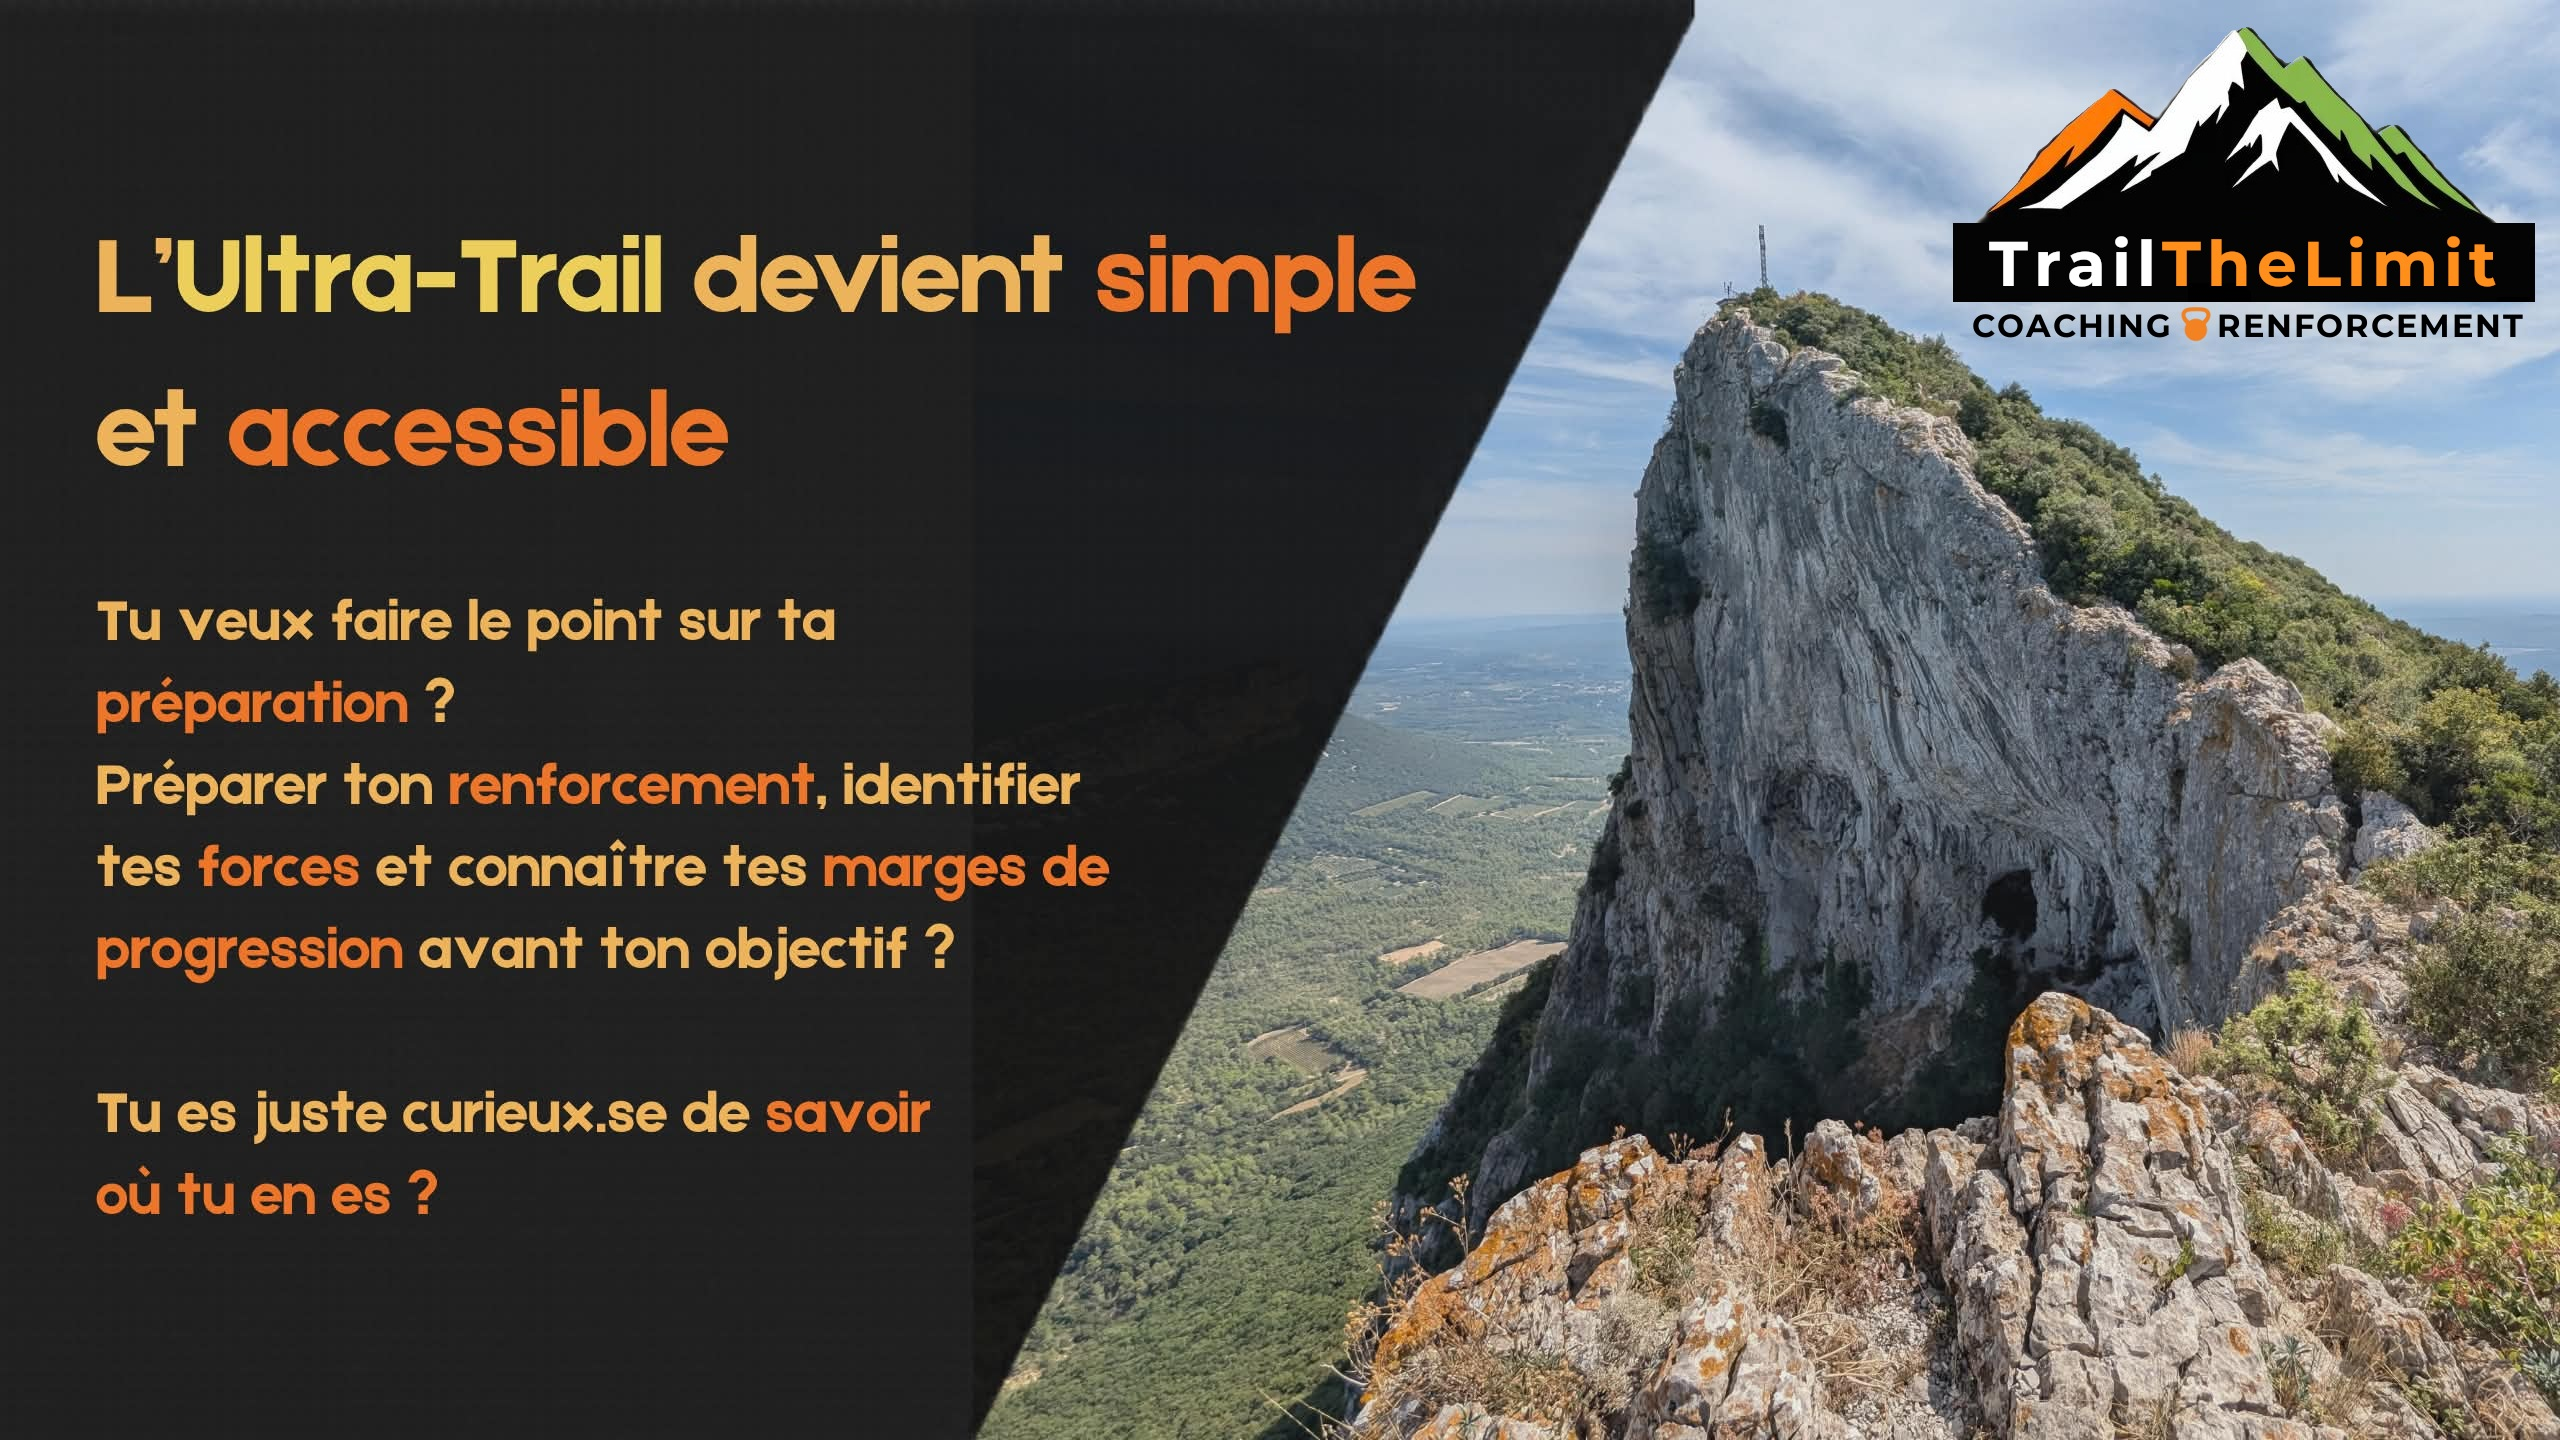
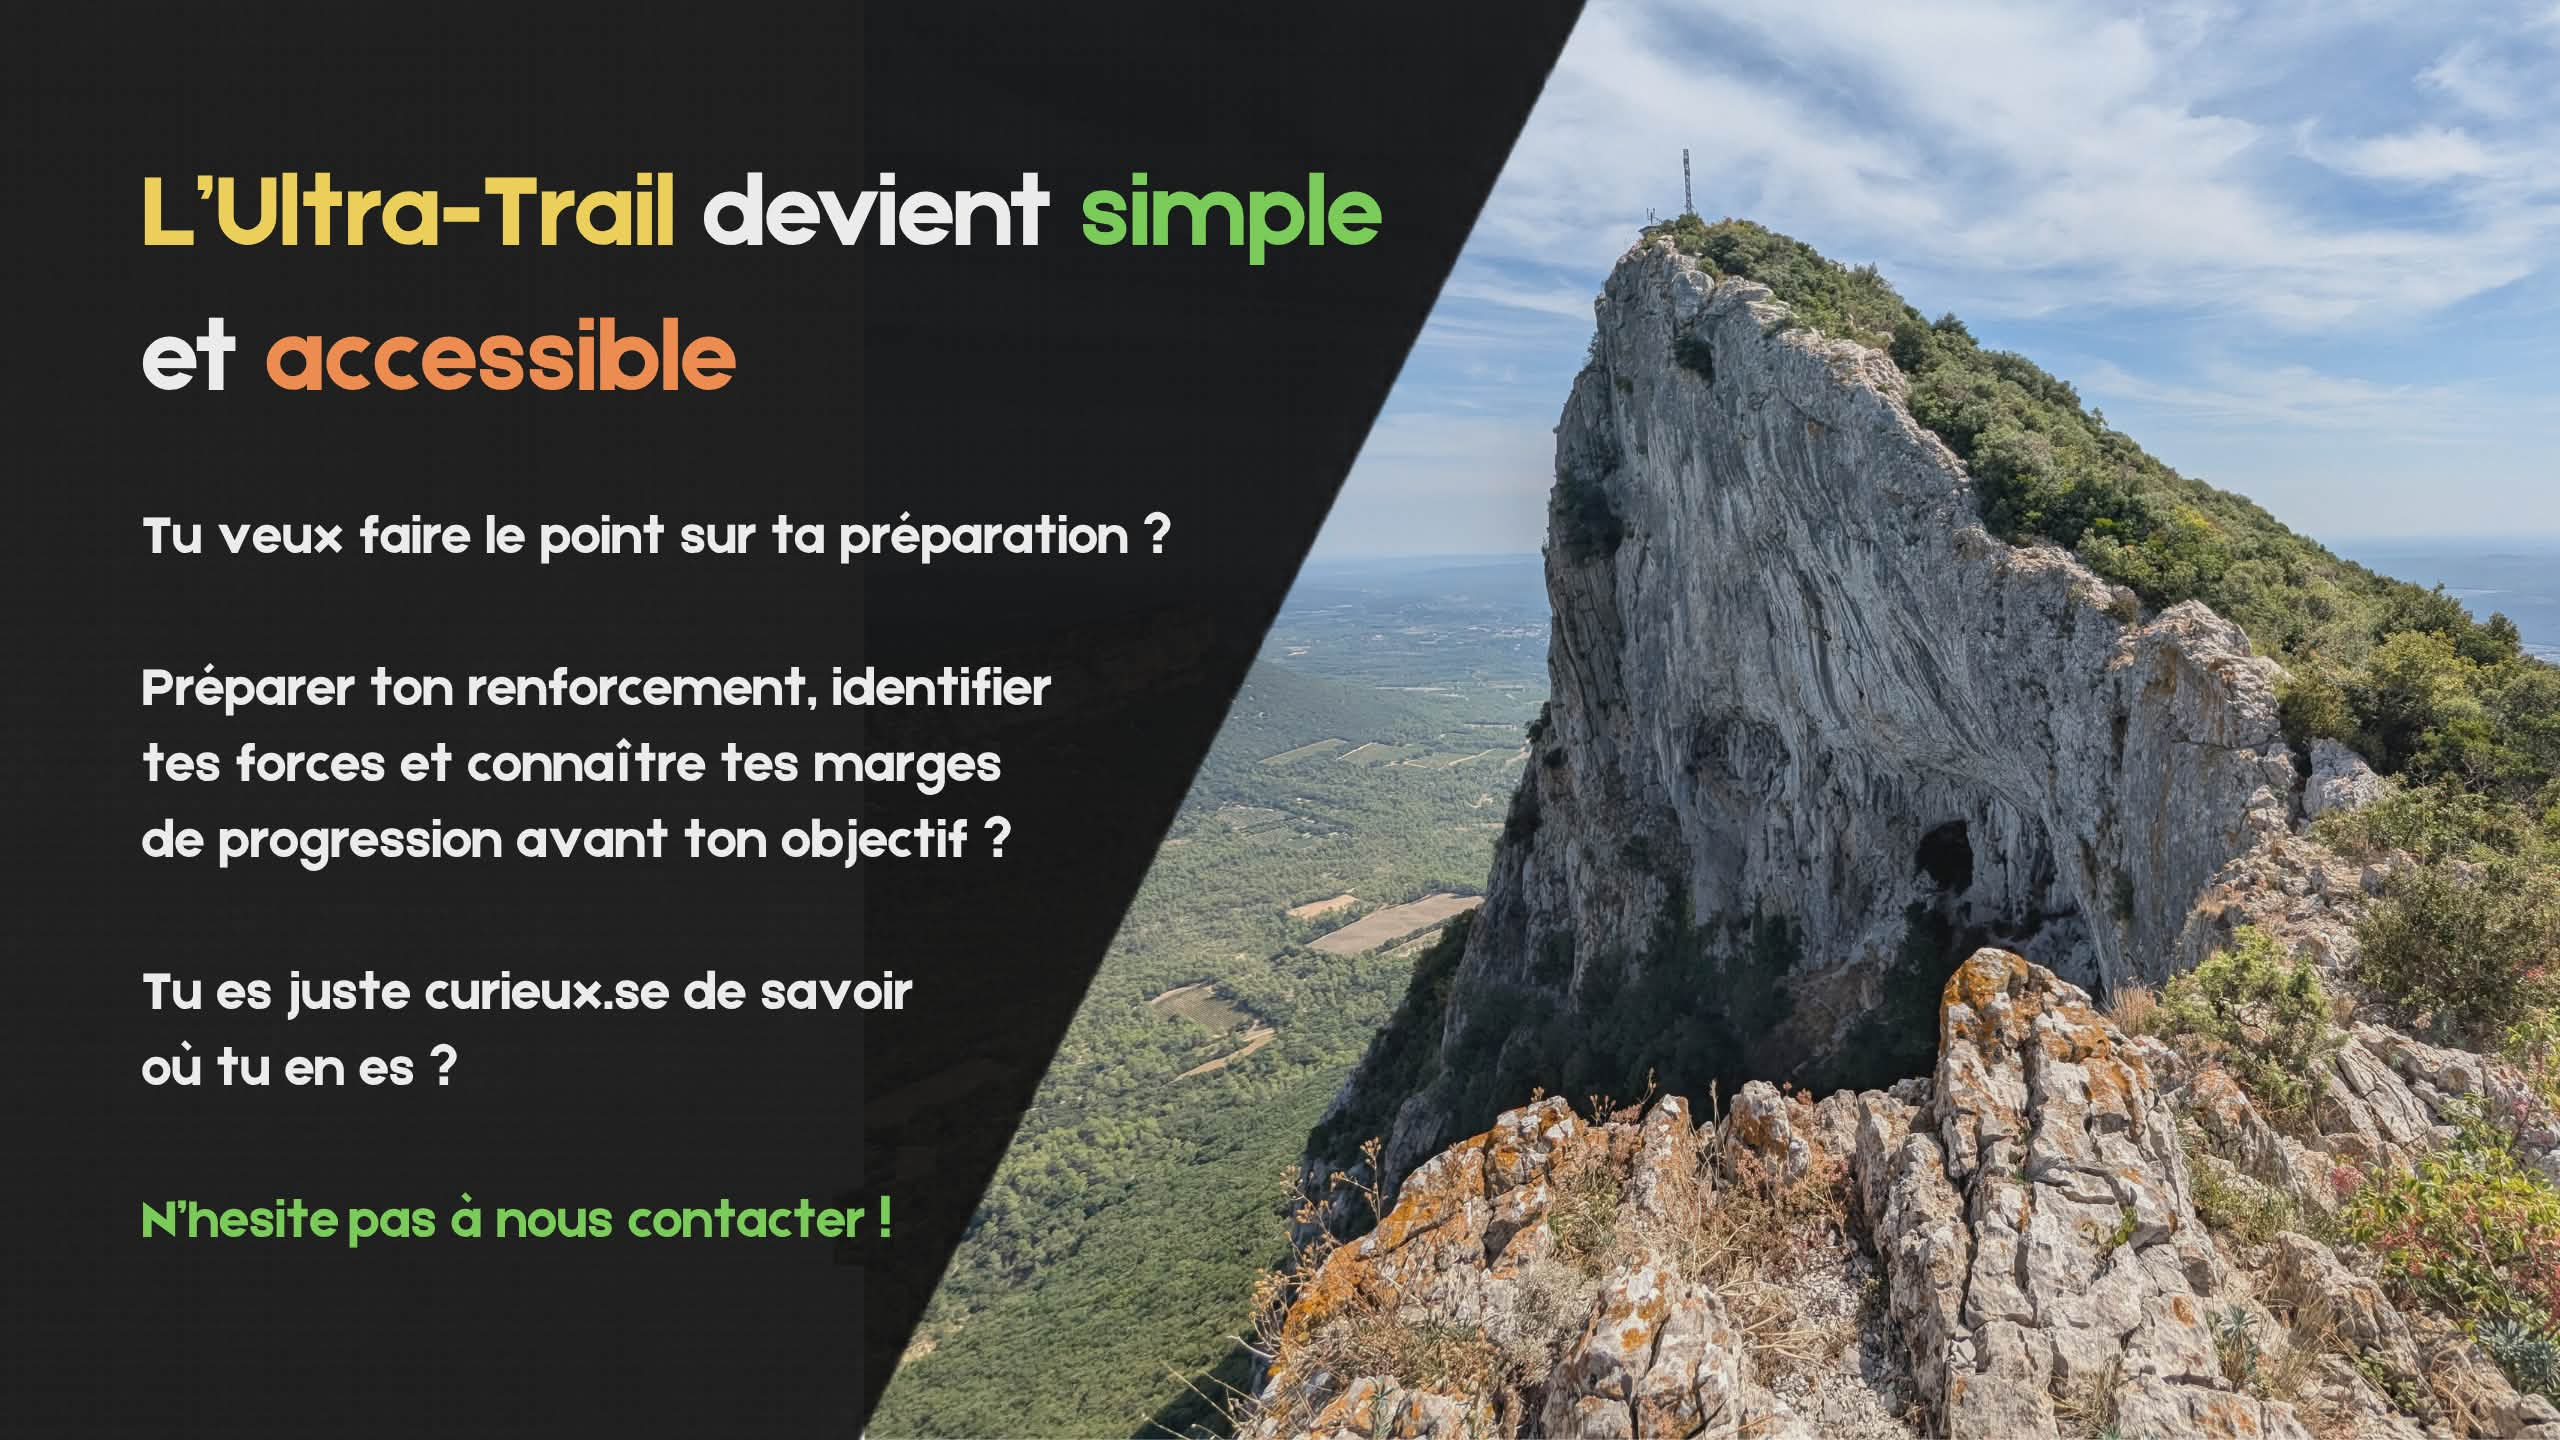
feat(blog): nouveaux articles

diff --git a/src/content/blog/le-stack-la-mesure-dont-personne.md b/src/content/blog/le-stack-la-mesure-dont-personne.md
@@ -1,0 +1,40 @@
+---
+id: 18090376553254369
+title: "🚀 Le Stack, la mesure dont personne ne te parle ! Pourtant cette donnée est primordiale 😱" 
+description: "🚀 Le Stack, la mesure dont personne ne te parle ! Pourtant cette donnée est..."
+excerpt: "🚀 Le Stack, la mesure dont personne ne te parle ! Pourtant cette donnée est..." 
+date: 2026-04-25
+image: https://scontent-cdg4-3.cdninstagram.com/v/t51.82787-15/683566507_17859475479632339_351465220372591270_n.jpg?stp=dst-jpg_e35_tt6&_nc_cat=111&ccb=7-5&_nc_sid=18de74&efg=eyJlZmdfdGFnIjoiQ0xJUFMuYmVzdF9pbWFnZV91cmxnZW4uQzMifQ%3D%3D&_nc_ohc=NAMu3sqZl2MQ7kNvwFySdzh&_nc_oc=AdoGp7u8MMhbangvDPOJNFBAc3wE2URmFKqEAwW4Y98Pwd1Te79Dhbk8K87A0CTWhQU&_nc_zt=23&_nc_ht=scontent-cdg4-3.cdninstagram.com&edm=ANo9K5cEAAAA&_nc_gid=LtxRBNdugPF7faiTQs92cA&_nc_tpa=Q5bMBQGr6eC_MLdrBtzJ-VyANWW9P90jOWIhJjXDxw7YJk8euPPpaG-n0RA_rvQuAUXPVBQzTEcbI7TeXg&oh=00_Af6d3E94qKnXEhVGnG6NEP4wYBFmJzVOpUISogefKb3y_A&oe=69FFB56F
+tags: ["trail", "coachingtrail", "ultratrail", "trailrunning", "entrainementtrail"]
+categories: ["trail", "coachingtrail", "ultratrail", "trailrunning", "entrainementtrail"]
+---
+
+# 🚀 Le Stack, la mesure dont personne ne te parle ! Pourtant cette donnée est primordiale 😱
+
+![thumbnail](https://scontent-cdg4-3.cdninstagram.com/v/t51.82787-15/683566507_17859475479632339_351465220372591270_n.jpg?stp=dst-jpg_e35_tt6&_nc_cat=111&ccb=7-5&_nc_sid=18de74&efg=eyJlZmdfdGFnIjoiQ0xJUFMuYmVzdF9pbWFnZV91cmxnZW4uQzMifQ%3D%3D&_nc_ohc=NAMu3sqZl2MQ7kNvwFySdzh&_nc_oc=AdoGp7u8MMhbangvDPOJNFBAc3wE2URmFKqEAwW4Y98Pwd1Te79Dhbk8K87A0CTWhQU&_nc_zt=23&_nc_ht=scontent-cdg4-3.cdninstagram.com&edm=ANo9K5cEAAAA&_nc_gid=LtxRBNdugPF7faiTQs92cA&_nc_tpa=Q5bMBQGr6eC_MLdrBtzJ-VyANWW9P90jOWIhJjXDxw7YJk8euPPpaG-n0RA_rvQuAUXPVBQzTEcbI7TeXg&oh=00_Af6d3E94qKnXEhVGnG6NEP4wYBFmJzVOpUISogefKb3y_A&oe=69FFB56F)
+
+
+
+3,2,1... Sors de ta zone de confort !
+
+On dit souvent qu'il faut casser de la fibre lors des entraînements en Trail, que les articulations doivent travailler, etc... On recommande même de réaliser des blocs de 100 km sur un seul weekend pour maximiser les traumatismes.
+
+🤔 Quel intérêt si l'on a un gros matelas de mousse sous le pied ?
+
+🧘♂️/🧘🏼♀️Tu veux gagner en efficacité et en temps ? 👉 Alors adopte un Stack qui favorise ces besoins pour forcer l'adaptation de ton corps aux impacts et à la contrainte articulaire.
+
+NB ➡️ Stack Faible (-28mm) 🟢 Proximité du sol, plus léger, plus précis, semelle plus souple, meilleur propulsion, excellent travail proprioceptif.
+
+🔴 Exigeant musculairement et articulairement. Adapté aux efforts courts (PARFAIT À L'ENTRAÎNEMENT)👍
+
+Stack Élevé (+28mm) 🟢 Globalement plus confortable, plus d'amorti, plus protecteur et moins exigeant musculairement (PARFAIT LE JOUR J 🏁) Adapté aux efforts longs 👍
+
+🔴 Perte de feeling au sol, moins stable, souvent moins léger et plus rigide, limitant la propulsion (c-a-d la vitesse) Cependant en Ultra, la vitesse n'est pas primordiale 😌
+
+En résumé, choisir la/les bonnes paires 👟  pour l'entraînement / compétition te permettra de courir mieux mais aussi plus longtemps 🏃♂️🎶🏃🏽♀️
+
+Abonne-toi et partage nous ton avis en commentaire 🤓
+
+#trail #coachingtrail #ultratrail #trailrunning #entrainementtrail
+
+Lien vers le post Instagram : [Instagram](https://www.instagram.com/reel/DXi9d5HjU3F/)

diff --git a/src/content/blog/objectif-bornes-renforcement-pour.md b/src/content/blog/objectif-bornes-renforcement-pour.md
@@ -1,0 +1,40 @@
+---
+id: 17848582038696647
+title: "🚀 Objectif 💯 bornes : Renforcement pour le trail. Épisode 3 " 
+description: "🚀 Objectif 💯 bornes : Renforcement pour le trail. Épisode 3 En trail et encore..."
+excerpt: "🚀 Objectif 💯 bornes : Renforcement pour le trail. Épisode 3 En trail et encore..." 
+date: 2026-04-29
+image: https://scontent-cdg4-1.cdninstagram.com/v/t51.82787-15/682053968_17859758019632339_7902379558070740621_n.jpg?stp=dst-jpg_e35_tt6&_nc_cat=102&ccb=7-5&_nc_sid=18de74&efg=eyJlZmdfdGFnIjoiQ0xJUFMuYmVzdF9pbWFnZV91cmxnZW4uQzMifQ%3D%3D&_nc_ohc=6znTBK4RF2gQ7kNvwE5FxHf&_nc_oc=AdpejTYg92loj79FeyT0efB9B6aEYpINO52it8-UGgSCrR8BuHui1Bocz99R8I4Wiec&_nc_zt=23&_nc_ht=scontent-cdg4-1.cdninstagram.com&edm=ANo9K5cEAAAA&_nc_gid=LtxRBNdugPF7faiTQs92cA&_nc_tpa=Q5bMBQHQXRXtDIYVGcbUuDrneffJnu8CUgWA1EFP4Xum1SdeWvH60f_S9cODtXMlQcpUz1Njw6d-UJ_CpQ&oh=00_Af6iteyqKL6-MJkwPdaEYIGdLfEwUB42iPOcscH7bWVNnQ&oe=69FFBA24
+tags: ["trail", "coachingtrail", "ultratrail", "trailrunning", "growth"]
+categories: ["trail", "coachingtrail", "ultratrail", "trailrunning", "growth"]
+---
+
+# 🚀 Objectif 💯 bornes : Renforcement pour le trail. Épisode 3 
+
+![thumbnail](https://scontent-cdg4-1.cdninstagram.com/v/t51.82787-15/682053968_17859758019632339_7902379558070740621_n.jpg?stp=dst-jpg_e35_tt6&_nc_cat=102&ccb=7-5&_nc_sid=18de74&efg=eyJlZmdfdGFnIjoiQ0xJUFMuYmVzdF9pbWFnZV91cmxnZW4uQzMifQ%3D%3D&_nc_ohc=6znTBK4RF2gQ7kNvwE5FxHf&_nc_oc=AdpejTYg92loj79FeyT0efB9B6aEYpINO52it8-UGgSCrR8BuHui1Bocz99R8I4Wiec&_nc_zt=23&_nc_ht=scontent-cdg4-1.cdninstagram.com&edm=ANo9K5cEAAAA&_nc_gid=LtxRBNdugPF7faiTQs92cA&_nc_tpa=Q5bMBQHQXRXtDIYVGcbUuDrneffJnu8CUgWA1EFP4Xum1SdeWvH60f_S9cODtXMlQcpUz1Njw6d-UJ_CpQ&oh=00_Af6iteyqKL6-MJkwPdaEYIGdLfEwUB42iPOcscH7bWVNnQ&oe=69FFBA24)
+
+
+
+En trail et encore plus en allant vers l'ultra-trail, le renforcement musculaire devient un pilier de la performance et de la longévité.
+
+✅ Améliore l’économie de course (jusqu’à +20 %)
+✅ Protège des chocs en descente
+✅ Réduit le risque de blessure
+✅ Maintient la technique malgré la fatigue
+
+Soyons pragmatique :
+👉 2 à 3 séances de 20–30 min par semaine suffisent.
+👉 Priorité en intersaison, rappel en période compétitive.
+👉 Stopper la force 10–14 jours avant l’objectif.
+Entraîner tous les groupes musculaires puis cibler les plus spécifiques.
+La clé ? La régularité, pas l’excès. 💪🏔️
+
+⚠️ C'est une discipline à part entière : on apprend à travailler, on planifie intelligement les séances puis on ajoute de la progressivité. Il est totalement pertinent de se faire accompagner à minima les premiers temps. Nous sommes là pour répondre à vos questions ou aller plus loin (coaching - check-up) 😘
+
+Et en plus, la musculation / renfo, c'est super pour ta santé 🥰
+
+Allez, partage nous ta séance fétiche 😎
+
+#trail #coachingtrail #ultratrail #trailrunning #growth
+
+Lien vers le post Instagram : [Instagram](https://www.instagram.com/reel/DXtAFJzjbmS/)

diff --git a/src/content/blog/realise-ton-quiz-et-decouvre-toi.md b/src/content/blog/realise-ton-quiz-et-decouvre-toi.md
@@ -1,0 +1,24 @@
+---
+id: 18102446131791811
+title: "➡️ Réalise ton QUIZ et découvre toi aussi ton profil d'ultra traileur.se ! C'est GRATUIT alors profites-en 😉🎁" 
+description: "➡️ Réalise ton QUIZ et découvre toi aussi ton profil d'ultra traileur.se ! C'est GRATUIT..."
+excerpt: "➡️ Réalise ton QUIZ et découvre toi aussi ton profil d'ultra traileur.se ! C'est GRATUIT..." 
+date: 2026-05-04
+image: https://scontent-cdg4-2.cdninstagram.com/v/t51.82787-15/685094943_17860427478632339_4541311871737940059_n.jpg?stp=dst-jpg_e35_tt6&_nc_cat=101&ccb=7-5&_nc_sid=18de74&efg=eyJlZmdfdGFnIjoiQ0xJUFMuYmVzdF9pbWFnZV91cmxnZW4uQzMifQ%3D%3D&_nc_ohc=VmUX9djNvWQQ7kNvwHglznW&_nc_oc=AdqKysylt40KqbBcmFIGYxcSNPwQQOH1oq2c4yd3GL3fvTcNe2gpjgrAPQ6FyOdUAIw&_nc_zt=23&_nc_ht=scontent-cdg4-2.cdninstagram.com&edm=ANo9K5cEAAAA&_nc_gid=LtxRBNdugPF7faiTQs92cA&_nc_tpa=Q5bMBQHlMyAcNFItavOf8Ef8wV7xuCKXk9QnxzXHcvAbB76KP4oMLwzfJL947p1qWC2_RpoTEGUEQ1Kt0Q&oh=00_Af6zG-pYvu3Cq5nq_Kv4j0niNrgwjDqrpxa14DYl8GykRA&oe=69FFA249
+tags: ["trail", "coachingtrail", "ultratrail", "entrainementtrail", "trainingmotivation"]
+categories: ["trail", "coachingtrail", "ultratrail", "entrainementtrail", "trainingmotivation"]
+---
+
+# ➡️ Réalise ton QUIZ et découvre toi aussi ton profil d'ultra traileur.se ! C'est GRATUIT alors profites-en 😉🎁
+
+![thumbnail](https://scontent-cdg4-2.cdninstagram.com/v/t51.82787-15/685094943_17860427478632339_4541311871737940059_n.jpg?stp=dst-jpg_e35_tt6&_nc_cat=101&ccb=7-5&_nc_sid=18de74&efg=eyJlZmdfdGFnIjoiQ0xJUFMuYmVzdF9pbWFnZV91cmxnZW4uQzMifQ%3D%3D&_nc_ohc=VmUX9djNvWQQ7kNvwHglznW&_nc_oc=AdqKysylt40KqbBcmFIGYxcSNPwQQOH1oq2c4yd3GL3fvTcNe2gpjgrAPQ6FyOdUAIw&_nc_zt=23&_nc_ht=scontent-cdg4-2.cdninstagram.com&edm=ANo9K5cEAAAA&_nc_gid=LtxRBNdugPF7faiTQs92cA&_nc_tpa=Q5bMBQHlMyAcNFItavOf8Ef8wV7xuCKXk9QnxzXHcvAbB76KP4oMLwzfJL947p1qWC2_RpoTEGUEQ1Kt0Q&oh=00_Af6zG-pYvu3Cq5nq_Kv4j0niNrgwjDqrpxa14DYl8GykRA&oe=69FFA249)
+
+
+
+PS : Tu auras le droit à une surprise à la fin 🥳 
+
+🖥️ https://trailthelimit.fr/quiz/
+
+#trail #coachingtrail #ultratrail #entrainementtrail #trainingmotivation
+
+Lien vers le post Instagram : [Instagram](https://www.instagram.com/reel/DX7PWmjtZoZ/)

diff --git a/src/content/blog/marre-des-douleurs-au-genou-en-fin.md b/src/content/blog/marre-des-douleurs-au-genou-en-fin.md
@@ -4,29 +4,26 @@ title: "Marre des douleurs au genou en fin de Trail ? 😤❌🦵"
 description: "Marre des douleurs au genou en fin de Trail ? 😤❌🦵 🤔 Il y a..."
 excerpt: "Marre des douleurs au genou en fin de Trail ? 😤❌🦵 🤔 Il y a..." 
 date: 2026-04-07
-image: https://scontent-mrs2-2.cdninstagram.com/v/t51.82787-15/660816017_17857191129632339_3964743803769112288_n.jpg?stp=dst-jpg_e35_tt6&_nc_cat=101&ccb=7-5&_nc_sid=18de74&efg=eyJlZmdfdGFnIjoiQ0xJUFMuYmVzdF9pbWFnZV91cmxnZW4uQzMifQ%3D%3D&_nc_ohc=Ki5FK5uW2YsQ7kNvwEeEY-1&_nc_oc=AdpPbREUAYJCj9MmtOqOl3n1HslLsKxDYo6ip53CNtEHwCqBKlLBq9qvIG2ieBf72Hk&_nc_zt=23&_nc_ht=scontent-mrs2-2.cdninstagram.com&edm=ANo9K5cEAAAA&_nc_gid=8kRJXBz95t02PLurqzjIZg&_nc_tpa=Q5bMBQGSkFMeud7rjlKUnX7g0uHs8ms-8d9Iih3zdqyjK4x-0dd9gnokYt1KIksgcse3ohEGgv-CDQswCw&oh=00_Af1lHXo7ex-MRIwUZniyIG8TyFXfvt59EarhFvFw2G026w&oe=69EEBC13
+image: https://scontent-cdg4-2.cdninstagram.com/v/t51.82787-15/660816017_17857191129632339_3964743803769112288_n.jpg?stp=dst-jpg_e35_tt6&_nc_cat=101&ccb=7-5&_nc_sid=18de74&efg=eyJlZmdfdGFnIjoiQ0xJUFMuYmVzdF9pbWFnZV91cmxnZW4uQzMifQ%3D%3D&_nc_ohc=_VdFn_qexBwQ7kNvwEuIDpB&_nc_oc=Adp3FpZx5wL9rZJanmjneqMYbYusBe8f6cZy41w_qqB80bzI8zegaAwk_50HW-jHwBY&_nc_zt=23&_nc_ht=scontent-cdg4-2.cdninstagram.com&edm=ANo9K5cEAAAA&_nc_gid=LtxRBNdugPF7faiTQs92cA&_nc_tpa=Q5bMBQEDoa-hawxocoJk9UKokj0g8U8VRTY-eHbxOhZ-F552HdgRIPhGoiUHXnZzx0TfWSqiT6nVmX7DaA&oh=00_Af5c2oei_6o9fAtEPHoWMOb0IPAOwtJxm2qbQtscqz9dlg&oe=69FFA753
 tags: ["trail", "ultratrail", "coachingtrail", "trailrunnerlife", "growth"]
 categories: ["trail", "ultratrail", "coachingtrail", "trailrunnerlife", "growth"]
 ---
 
 # Marre des douleurs au genou en fin de Trail ? 😤❌🦵
 
-![thumbnail](https://scontent-mrs2-2.cdninstagram.com/v/t51.82787-15/660816017_17857191129632339_3964743803769112288_n.jpg?stp=dst-jpg_e35_tt6&_nc_cat=101&ccb=7-5&_nc_sid=18de74&efg=eyJlZmdfdGFnIjoiQ0xJUFMuYmVzdF9pbWFnZV91cmxnZW4uQzMifQ%3D%3D&_nc_ohc=Ki5FK5uW2YsQ7kNvwEeEY-1&_nc_oc=AdpPbREUAYJCj9MmtOqOl3n1HslLsKxDYo6ip53CNtEHwCqBKlLBq9qvIG2ieBf72Hk&_nc_zt=23&_nc_ht=scontent-mrs2-2.cdninstagram.com&edm=ANo9K5cEAAAA&_nc_gid=8kRJXBz95t02PLurqzjIZg&_nc_tpa=Q5bMBQGSkFMeud7rjlKUnX7g0uHs8ms-8d9Iih3zdqyjK4x-0dd9gnokYt1KIksgcse3ohEGgv-CDQswCw&oh=00_Af1lHXo7ex-MRIwUZniyIG8TyFXfvt59EarhFvFw2G026w&oe=69EEBC13)
+![thumbnail](https://scontent-cdg4-2.cdninstagram.com/v/t51.82787-15/660816017_17857191129632339_3964743803769112288_n.jpg?stp=dst-jpg_e35_tt6&_nc_cat=101&ccb=7-5&_nc_sid=18de74&efg=eyJlZmdfdGFnIjoiQ0xJUFMuYmVzdF9pbWFnZV91cmxnZW4uQzMifQ%3D%3D&_nc_ohc=_VdFn_qexBwQ7kNvwEuIDpB&_nc_oc=Adp3FpZx5wL9rZJanmjneqMYbYusBe8f6cZy41w_qqB80bzI8zegaAwk_50HW-jHwBY&_nc_zt=23&_nc_ht=scontent-cdg4-2.cdninstagram.com&edm=ANo9K5cEAAAA&_nc_gid=LtxRBNdugPF7faiTQs92cA&_nc_tpa=Q5bMBQEDoa-hawxocoJk9UKokj0g8U8VRTY-eHbxOhZ-F552HdgRIPhGoiUHXnZzx0TfWSqiT6nVmX7DaA&oh=00_Af5c2oei_6o9fAtEPHoWMOb0IPAOwtJxm2qbQtscqz9dlg&oe=69FFA753)
 
 
 
-🤔 Il y a peut-être des ajustements à faire sur ta foulée ?
+🤔 Il y a peut-être des ajustements à faire sur ta foulée ? 
 
-🏃Quand tu allonges la foulée pour aller plus vite, tu fais de l'overstriding.
+👉🏼 Quand tu allonges la foulée pour aller plus vite, tu fais de l'overstriding. Ta jambe est tendue à l'impact, et les forces qui remontent dans ton genou sont doublées. C'est la blessure assurée ❌🦵🏼
 
-🦵 Ta jambe est tendue à l'impact, et les forces qui remontent dans ton genou sont doublées. C'est la blessure assurée.
+➡️ La solution à tester (ou retester) : augmente ta cadence de pas. Oublie les grands pas. Vise entre 170 et 180 pas par minute.
 
-🥳 La solution à tester (ou retester) : augmente ta cadence de pas. Oublie les grands pas. Vise entre 170 et 180 pas par minute.
+➡️ Ton pied atterrira naturellement sous ton corps, genou fléchi. Tu transformes l'impact en propulsion. Moins de chocs, moins de gaspillage d'énergie.
 
-Ton pied atterrira naturellement sous ton corps, genou fléchi. Tu transformes l'impact en propulsion. Moins de chocs, moins de gaspillage d'énergie.
-
-Télécharge une app de métronome ou utilise ta montre, teste, et dis-moi en commentaire si tu sens la différence !
-Si tu connais déjà, partage ton expérience de gestion de cadence 😎
+🤓 Télécharge une app de métronome ou utilise ta montre, teste, et dis-moi en commentaire si tu sens la différence !
 
 #trail #ultratrail #coachingtrail #trailrunnerlife #growth
 

diff --git a/src/content/blog/les-plaques-carbone-en-trail.md b/src/content/blog/les-plaques-carbone-en-trail.md
@@ -4,14 +4,14 @@ title: "🚀 Les plaques carbone en Trail : Mythe marketing ou réel intérêt ?
 description: "🚀 Les plaques carbone en Trail : Mythe marketing ou réel intérêt ? 🤔 ✔️..."
 excerpt: "🚀 Les plaques carbone en Trail : Mythe marketing ou réel intérêt ? 🤔 ✔️..." 
 date: 2026-03-27
-image: https://scontent-mrs2-1.cdninstagram.com/v/t51.82787-15/657643813_17855934996632339_7279935951692384456_n.jpg?stp=dst-jpg_e35_tt6&_nc_cat=109&ccb=7-5&_nc_sid=18de74&efg=eyJlZmdfdGFnIjoiQ0xJUFMuYmVzdF9pbWFnZV91cmxnZW4uQzMifQ%3D%3D&_nc_ohc=eXsoVNh1ur0Q7kNvwHAQCaQ&_nc_oc=AdpcruPOvABa6h_sabmMoSsnb1ul3XT7chH2ZTORxiGa-vTWSdvPiRPpqSmgarlJwvY&_nc_zt=23&_nc_ht=scontent-mrs2-1.cdninstagram.com&edm=ANo9K5cEAAAA&_nc_gid=8kRJXBz95t02PLurqzjIZg&_nc_tpa=Q5bMBQGLh90pDSBPUkmULpkQEdXH7tY73zsiFwYOywSUSXy7Eqy9qG0FuERVdcXuuKxoKdEfXy8vCj9J-w&oh=00_Af3l61uSQLIdfwGijyiu0MWuPmmIqNRt9MCylx30yFOLdw&oe=69EEB135
-tags: ["trail", "trailrunning", "ultratrail", "running", "coachingtrail"]
-categories: ["trail", "trailrunning", "ultratrail", "running", "coachingtrail"]
+image: https://scontent-cdg4-2.cdninstagram.com/v/t51.82787-15/657643813_17855934996632339_7279935951692384456_n.jpg?stp=dst-jpg_e35_tt6&_nc_cat=109&ccb=7-5&_nc_sid=18de74&efg=eyJlZmdfdGFnIjoiQ0xJUFMuYmVzdF9pbWFnZV91cmxnZW4uQzMifQ%3D%3D&_nc_ohc=nFLVwZeT48kQ7kNvwHrBWw9&_nc_oc=AdqzMytfcI-sS6liNgON-ceYjVLLU6RwMH540CwJGP4nynL2XUOH8ycXRHQGrkiv7FU&_nc_zt=23&_nc_ht=scontent-cdg4-2.cdninstagram.com&edm=ANo9K5cEAAAA&_nc_gid=LtxRBNdugPF7faiTQs92cA&_nc_tpa=Q5bMBQF8Cf-vbHp7C1wlx9I-HAgjf6MunJpzJv7RpugZeQRWBbzHN1jpqACH3XmxiToFyYZWTZwtxwtXow&oh=00_Af7pOVbx45A-onQlgshnzchhrGzBBoSw_E8WeVH1_t-iyQ&oe=69FF9C75
+tags: ["trail", "trailrunning", "ultratrail", "conseiltrail", "coachingtrail"]
+categories: ["trail", "trailrunning", "ultratrail", "conseiltrail", "coachingtrail"]
 ---
 
 # 🚀 Les plaques carbone en Trail : Mythe marketing ou réel intérêt ? 🤔
 
-![thumbnail](https://scontent-mrs2-1.cdninstagram.com/v/t51.82787-15/657643813_17855934996632339_7279935951692384456_n.jpg?stp=dst-jpg_e35_tt6&_nc_cat=109&ccb=7-5&_nc_sid=18de74&efg=eyJlZmdfdGFnIjoiQ0xJUFMuYmVzdF9pbWFnZV91cmxnZW4uQzMifQ%3D%3D&_nc_ohc=eXsoVNh1ur0Q7kNvwHAQCaQ&_nc_oc=AdpcruPOvABa6h_sabmMoSsnb1ul3XT7chH2ZTORxiGa-vTWSdvPiRPpqSmgarlJwvY&_nc_zt=23&_nc_ht=scontent-mrs2-1.cdninstagram.com&edm=ANo9K5cEAAAA&_nc_gid=8kRJXBz95t02PLurqzjIZg&_nc_tpa=Q5bMBQGLh90pDSBPUkmULpkQEdXH7tY73zsiFwYOywSUSXy7Eqy9qG0FuERVdcXuuKxoKdEfXy8vCj9J-w&oh=00_Af3l61uSQLIdfwGijyiu0MWuPmmIqNRt9MCylx30yFOLdw&oe=69EEB135)
+![thumbnail](https://scontent-cdg4-2.cdninstagram.com/v/t51.82787-15/657643813_17855934996632339_7279935951692384456_n.jpg?stp=dst-jpg_e35_tt6&_nc_cat=109&ccb=7-5&_nc_sid=18de74&efg=eyJlZmdfdGFnIjoiQ0xJUFMuYmVzdF9pbWFnZV91cmxnZW4uQzMifQ%3D%3D&_nc_ohc=nFLVwZeT48kQ7kNvwHrBWw9&_nc_oc=AdqzMytfcI-sS6liNgON-ceYjVLLU6RwMH540CwJGP4nynL2XUOH8ycXRHQGrkiv7FU&_nc_zt=23&_nc_ht=scontent-cdg4-2.cdninstagram.com&edm=ANo9K5cEAAAA&_nc_gid=LtxRBNdugPF7faiTQs92cA&_nc_tpa=Q5bMBQF8Cf-vbHp7C1wlx9I-HAgjf6MunJpzJv7RpugZeQRWBbzHN1jpqACH3XmxiToFyYZWTZwtxwtXow&oh=00_Af7pOVbx45A-onQlgshnzchhrGzBBoSw_E8WeVH1_t-iyQ&oe=69FF9C75)
 
 
 
@@ -32,6 +32,6 @@ Mais en Trail entre altération de la proprioception liée à la perte de feelin
 
 Les supershoes en Trail, mythe marketing ou réel intérêt pour toi ? Dis-nous en commentaire 😁
 
-#trail #trailrunning #ultratrail #running #coachingtrail
+#trail #trailrunning #ultratrail #conseiltrail #coachingtrail
 
 Lien vers le post Instagram : [Instagram](https://www.instagram.com/reel/DWZnzFBDZrw/)

diff --git a/src/content/blog/s-entrainer-avec-rigueur-tout-en-gardant-le.md b/src/content/blog/s-entrainer-avec-rigueur-tout-en-gardant-le.md
@@ -1,21 +1,19 @@
 ---
 id: 17916867747297848
-title: "S'entraîner avec rigueur tout en gardant le plaisir de courir 🤩 Toi aussi dépasse tes limites 👊" 
+title: "S'entraîner avec rigueur tout en gardant le plaisir de courir 🤩 Toi aussi dépasse tes limites ! ✨🚀" 
 description: "S'entraîner avec rigueur tout en gardant le plaisir de courir 🤩 Toi aussi dépasse tes..."
 excerpt: "S'entraîner avec rigueur tout en gardant le plaisir de courir 🤩 Toi aussi dépasse tes..." 
 date: 2026-03-14
-image: https://scontent-mrs2-2.cdninstagram.com/v/t51.82787-15/660936158_17857345275632339_2804022110531724301_n.jpg?stp=dst-jpg_e35_tt6&_nc_cat=107&ccb=7-5&_nc_sid=18de74&efg=eyJlZmdfdGFnIjoiQ0xJUFMuYmVzdF9pbWFnZV91cmxnZW4uQzMifQ%3D%3D&_nc_ohc=g-U97s-q_p0Q7kNvwEnvkia&_nc_oc=Adqh_EOOtFjHI2EYlDDjpH4r6nfn6QOHPjxq0v1LmrXh0dH1lHqBtB73zF1WaJzL83o&_nc_zt=23&_nc_ht=scontent-mrs2-2.cdninstagram.com&edm=ANo9K5cEAAAA&_nc_gid=8kRJXBz95t02PLurqzjIZg&_nc_tpa=Q5bMBQFu6BGKsbqfFLK12sXiZJKTaSNk36KWv7XXAnHLvOSwaDo369HiKzC3apqosuA9XfrjsIFMhwTf9w&oh=00_Af0Yh4TzXlXxFTcfsVBUtNCehd72b_FXo9j1X6Rbebjs1Q&oe=69EEB5CC
+image: https://scontent-cdg4-2.cdninstagram.com/v/t51.82787-15/660936158_17857345275632339_2804022110531724301_n.jpg?stp=dst-jpg_e35_tt6&_nc_cat=107&ccb=7-5&_nc_sid=18de74&efg=eyJlZmdfdGFnIjoiQ0xJUFMuYmVzdF9pbWFnZV91cmxnZW4uQzMifQ%3D%3D&_nc_ohc=15JuSyvAMt4Q7kNvwFl4AY0&_nc_oc=AdpSvObMvSPPH2WDnEEzT_peTMjMZywMXVD0PxeH69LFRx8askhwDvrzrQe-Nu-1FEs&_nc_zt=23&_nc_ht=scontent-cdg4-2.cdninstagram.com&edm=ANo9K5cEAAAA&_nc_gid=LtxRBNdugPF7faiTQs92cA&_nc_tpa=Q5bMBQE1zChiLIsLJBC_UYFt5AeP2ztwDVUKWOt_1xnLwdGrg9u_qg8Y6UUJkWODnQ07CSLI9l8OnRFIBA&oh=00_Af6siC3YamkDP8AAmzc2We7rriL2VxPcDDLPmVOCsCdyug&oe=69FFA10C
 tags: ["trail", "trailrunning", "coachingtrail", "entrainementtrail", "ultratrail"]
 categories: ["trail", "trailrunning", "coachingtrail", "entrainementtrail", "ultratrail"]
 ---
 
-# S'entraîner avec rigueur tout en gardant le plaisir de courir 🤩 Toi aussi dépasse tes limites 👊
+# S'entraîner avec rigueur tout en gardant le plaisir de courir 🤩 Toi aussi dépasse tes limites ! ✨🚀
 
-![thumbnail](https://scontent-mrs2-2.cdninstagram.com/v/t51.82787-15/660936158_17857345275632339_2804022110531724301_n.jpg?stp=dst-jpg_e35_tt6&_nc_cat=107&ccb=7-5&_nc_sid=18de74&efg=eyJlZmdfdGFnIjoiQ0xJUFMuYmVzdF9pbWFnZV91cmxnZW4uQzMifQ%3D%3D&_nc_ohc=g-U97s-q_p0Q7kNvwEnvkia&_nc_oc=Adqh_EOOtFjHI2EYlDDjpH4r6nfn6QOHPjxq0v1LmrXh0dH1lHqBtB73zF1WaJzL83o&_nc_zt=23&_nc_ht=scontent-mrs2-2.cdninstagram.com&edm=ANo9K5cEAAAA&_nc_gid=8kRJXBz95t02PLurqzjIZg&_nc_tpa=Q5bMBQFu6BGKsbqfFLK12sXiZJKTaSNk36KWv7XXAnHLvOSwaDo369HiKzC3apqosuA9XfrjsIFMhwTf9w&oh=00_Af0Yh4TzXlXxFTcfsVBUtNCehd72b_FXo9j1X6Rbebjs1Q&oe=69EEB5CC)
+![thumbnail](https://scontent-cdg4-2.cdninstagram.com/v/t51.82787-15/660936158_17857345275632339_2804022110531724301_n.jpg?stp=dst-jpg_e35_tt6&_nc_cat=107&ccb=7-5&_nc_sid=18de74&efg=eyJlZmdfdGFnIjoiQ0xJUFMuYmVzdF9pbWFnZV91cmxnZW4uQzMifQ%3D%3D&_nc_ohc=15JuSyvAMt4Q7kNvwFl4AY0&_nc_oc=AdpSvObMvSPPH2WDnEEzT_peTMjMZywMXVD0PxeH69LFRx8askhwDvrzrQe-Nu-1FEs&_nc_zt=23&_nc_ht=scontent-cdg4-2.cdninstagram.com&edm=ANo9K5cEAAAA&_nc_gid=LtxRBNdugPF7faiTQs92cA&_nc_tpa=Q5bMBQE1zChiLIsLJBC_UYFt5AeP2ztwDVUKWOt_1xnLwdGrg9u_qg8Y6UUJkWODnQ07CSLI9l8OnRFIBA&oh=00_Af6siC3YamkDP8AAmzc2We7rriL2VxPcDDLPmVOCsCdyug&oe=69FFA10C)
 
 
-
-Abonne-toi !!! @trailthelimit ✨🚀💫
 
 #trail #trailrunning #coachingtrail #entrainementtrail #ultratrail
 

diff --git a/src/content/blog/100-km-l-objectif-mythique.md b/src/content/blog/100-km-l-objectif-mythique.md
@@ -4,14 +4,14 @@ title: "100 KM : L'OBJECTIF MYTHIQUE 🏔️✨"
 description: "100 KM : L'OBJECTIF MYTHIQUE 🏔️✨ Passer la barre des trois chiffres, c'est basculer dans..."
 excerpt: "100 KM : L'OBJECTIF MYTHIQUE 🏔️✨ Passer la barre des trois chiffres, c'est basculer dans..." 
 date: 2026-04-16
-image: https://scontent-mrs2-2.cdninstagram.com/v/t51.82787-15/671799047_17858915901632339_2382080599869843410_n.jpg?stp=dst-jpg_e35_tt6&_nc_cat=107&ccb=7-5&_nc_sid=18de74&efg=eyJlZmdfdGFnIjoiQ0xJUFMuYmVzdF9pbWFnZV91cmxnZW4uQzMifQ%3D%3D&_nc_ohc=jcqHhcwRZkoQ7kNvwHF77nd&_nc_oc=AdoXnz2JdWrtTcHbw1OhOX-yar1vcA_gdoNck8cKYvd_WOZtftTKAo_c-nSRjGkljUI&_nc_zt=23&_nc_ht=scontent-mrs2-2.cdninstagram.com&edm=ANo9K5cEAAAA&_nc_gid=8kRJXBz95t02PLurqzjIZg&_nc_tpa=Q5bMBQHYdrdq5YuYFm6VXEFL8CdjlZKx8JBLZe2K6dhBwMfqgI4aE9e1lvVElYM9RZaoLidEB7dK2LQVWQ&oh=00_Af0qGeTcr_CMnGYIFpIZ5gfIc-0bZVn64xpMT-4kUET3QA&oe=69EED16E
+image: https://scontent-cdg4-2.cdninstagram.com/v/t51.82787-15/671799047_17858915901632339_2382080599869843410_n.jpg?stp=dst-jpg_e35_tt6&_nc_cat=107&ccb=7-5&_nc_sid=18de74&efg=eyJlZmdfdGFnIjoiQ0xJUFMuYmVzdF9pbWFnZV91cmxnZW4uQzMifQ%3D%3D&_nc_ohc=bP22_xJrYq8Q7kNvwHAlftX&_nc_oc=AdoFHlHbnPOZxLDsSdwDKQ90aUlfg8HDemzxcgarmGtkENh8NeK4SU-mswUdOmEpL08&_nc_zt=23&_nc_ht=scontent-cdg4-2.cdninstagram.com&edm=ANo9K5cEAAAA&_nc_gid=LtxRBNdugPF7faiTQs92cA&_nc_tpa=Q5bMBQEckf5ePS8yQ4AjxuNYCPkCNSj1d4KkYNOk7hQgPZfQaL88A3oFfKKHzqjeyM2l1y4sWz7FRSBxsw&oh=00_Af4MS2jLK2avdBlMrPy7lY_Te2Bmwp8rHbyXhamIUUPsMw&oe=69FFBCAE
 tags: ["trail", "coachingtrail", "ultratrail", "trailrunning", "growth"]
 categories: ["trail", "coachingtrail", "ultratrail", "trailrunning", "growth"]
 ---
 
 # 100 KM : L'OBJECTIF MYTHIQUE 🏔️✨
 
-![thumbnail](https://scontent-mrs2-2.cdninstagram.com/v/t51.82787-15/671799047_17858915901632339_2382080599869843410_n.jpg?stp=dst-jpg_e35_tt6&_nc_cat=107&ccb=7-5&_nc_sid=18de74&efg=eyJlZmdfdGFnIjoiQ0xJUFMuYmVzdF9pbWFnZV91cmxnZW4uQzMifQ%3D%3D&_nc_ohc=jcqHhcwRZkoQ7kNvwHF77nd&_nc_oc=AdoXnz2JdWrtTcHbw1OhOX-yar1vcA_gdoNck8cKYvd_WOZtftTKAo_c-nSRjGkljUI&_nc_zt=23&_nc_ht=scontent-mrs2-2.cdninstagram.com&edm=ANo9K5cEAAAA&_nc_gid=8kRJXBz95t02PLurqzjIZg&_nc_tpa=Q5bMBQHYdrdq5YuYFm6VXEFL8CdjlZKx8JBLZe2K6dhBwMfqgI4aE9e1lvVElYM9RZaoLidEB7dK2LQVWQ&oh=00_Af0qGeTcr_CMnGYIFpIZ5gfIc-0bZVn64xpMT-4kUET3QA&oe=69EED16E)
+![thumbnail](https://scontent-cdg4-2.cdninstagram.com/v/t51.82787-15/671799047_17858915901632339_2382080599869843410_n.jpg?stp=dst-jpg_e35_tt6&_nc_cat=107&ccb=7-5&_nc_sid=18de74&efg=eyJlZmdfdGFnIjoiQ0xJUFMuYmVzdF9pbWFnZV91cmxnZW4uQzMifQ%3D%3D&_nc_ohc=bP22_xJrYq8Q7kNvwHAlftX&_nc_oc=AdoFHlHbnPOZxLDsSdwDKQ90aUlfg8HDemzxcgarmGtkENh8NeK4SU-mswUdOmEpL08&_nc_zt=23&_nc_ht=scontent-cdg4-2.cdninstagram.com&edm=ANo9K5cEAAAA&_nc_gid=LtxRBNdugPF7faiTQs92cA&_nc_tpa=Q5bMBQEckf5ePS8yQ4AjxuNYCPkCNSj1d4KkYNOk7hQgPZfQaL88A3oFfKKHzqjeyM2l1y4sWz7FRSBxsw&oh=00_Af4MS2jLK2avdBlMrPy7lY_Te2Bmwp8rHbyXhamIUUPsMw&oe=69FFBCAE)
 
 
 

diff --git a/src/content/blog/et-si-la-force-venait-du.md b/src/content/blog/et-si-la-force-venait-du.md
@@ -4,14 +4,14 @@ title: "💥 Et si la FORCE venait du groupe ?! 💪"
 description: "💥 Et si la FORCE venait du groupe ?! 💪 👉 Ici, on ne parle..."
 excerpt: "💥 Et si la FORCE venait du groupe ?! 💪 👉 Ici, on ne parle..." 
 date: 2025-12-12
-image: https://scontent-mrs2-2.cdninstagram.com/v/t51.82787-15/598002655_17844610557632339_4170427420472840365_n.heic?stp=dst-jpg_e35_tt6&_nc_cat=106&ccb=7-5&_nc_sid=18de74&efg=eyJlZmdfdGFnIjoiRkVFRC5iZXN0X2ltYWdlX3VybGdlbi5DMyJ9&_nc_ohc=Gxah9ewBJowQ7kNvwHjH2AC&_nc_oc=Adqh4GnoE46yMxFYDKRafsb-SqlVyXw2m1aWchO5tyo4KhTREOaptXPSQwUiUkCgr3o&_nc_zt=23&_nc_ht=scontent-mrs2-2.cdninstagram.com&edm=ANo9K5cEAAAA&_nc_gid=8kRJXBz95t02PLurqzjIZg&_nc_tpa=Q5bMBQGCuUjOOpz8fwQf6wCVR9f52j9gYvGiQ1By9E2Sst8nfiApV1EfnU58PnNWCNBKNKE8tQvl0ba9Hw&oh=00_Af1e0z29FJn8ZPkAILcWtujnYk90PVRAFVoOdT1dDhQckQ&oe=69EEAFF2
+image: https://scontent-cdg6-1.cdninstagram.com/v/t51.82787-15/598002655_17844610557632339_4170427420472840365_n.heic?stp=dst-jpg_e35_tt6&_nc_cat=106&ccb=7-5&_nc_sid=18de74&efg=eyJlZmdfdGFnIjoiRkVFRC5iZXN0X2ltYWdlX3VybGdlbi5DMyJ9&_nc_ohc=R2BmAIEqHE8Q7kNvwFLl0aK&_nc_oc=AdoqJQln45ptw-YpAoh5_nn-4lCHfw5Gh4z5srF-ZEXCzuREPe4ZNmu0CtyUvW17d7E&_nc_zt=23&_nc_ht=scontent-cdg6-1.cdninstagram.com&edm=ANo9K5cEAAAA&_nc_gid=LtxRBNdugPF7faiTQs92cA&_nc_tpa=Q5bMBQHYRevkWmsQMhc-YVOYgDCi8025rL-UjY-ArFpvmume4RoiS-2k6PeIRtQWLLuFJUQpZdM8CsFHsQ&oh=00_Af4oID0Q2wdFDjgk3Mu0NjhnCar4GTS4Z88ZxMgl6QnrPA&oe=69FF9B32
 tags: ["EnsembleOnEstPlusFort", "trail", "trailrunning", "musculation", "Communaut", "coaching", "montpellier", "outdoorlovers"]
 categories: ["EnsembleOnEstPlusFort", "trail", "trailrunning", "musculation", "Communaut", "coaching", "montpellier", "outdoorlovers"]
 ---
 
 # 💥 Et si la FORCE venait du groupe ?! 💪
 
-![thumbnail](https://scontent-mrs2-2.cdninstagram.com/v/t51.82787-15/598002655_17844610557632339_4170427420472840365_n.heic?stp=dst-jpg_e35_tt6&_nc_cat=106&ccb=7-5&_nc_sid=18de74&efg=eyJlZmdfdGFnIjoiRkVFRC5iZXN0X2ltYWdlX3VybGdlbi5DMyJ9&_nc_ohc=Gxah9ewBJowQ7kNvwHjH2AC&_nc_oc=Adqh4GnoE46yMxFYDKRafsb-SqlVyXw2m1aWchO5tyo4KhTREOaptXPSQwUiUkCgr3o&_nc_zt=23&_nc_ht=scontent-mrs2-2.cdninstagram.com&edm=ANo9K5cEAAAA&_nc_gid=8kRJXBz95t02PLurqzjIZg&_nc_tpa=Q5bMBQGCuUjOOpz8fwQf6wCVR9f52j9gYvGiQ1By9E2Sst8nfiApV1EfnU58PnNWCNBKNKE8tQvl0ba9Hw&oh=00_Af1e0z29FJn8ZPkAILcWtujnYk90PVRAFVoOdT1dDhQckQ&oe=69EEAFF2)
+![thumbnail](https://scontent-cdg6-1.cdninstagram.com/v/t51.82787-15/598002655_17844610557632339_4170427420472840365_n.heic?stp=dst-jpg_e35_tt6&_nc_cat=106&ccb=7-5&_nc_sid=18de74&efg=eyJlZmdfdGFnIjoiRkVFRC5iZXN0X2ltYWdlX3VybGdlbi5DMyJ9&_nc_ohc=R2BmAIEqHE8Q7kNvwFLl0aK&_nc_oc=AdoqJQln45ptw-YpAoh5_nn-4lCHfw5Gh4z5srF-ZEXCzuREPe4ZNmu0CtyUvW17d7E&_nc_zt=23&_nc_ht=scontent-cdg6-1.cdninstagram.com&edm=ANo9K5cEAAAA&_nc_gid=LtxRBNdugPF7faiTQs92cA&_nc_tpa=Q5bMBQHYRevkWmsQMhc-YVOYgDCi8025rL-UjY-ArFpvmume4RoiS-2k6PeIRtQWLLuFJUQpZdM8CsFHsQ&oh=00_Af4oID0Q2wdFDjgk3Mu0NjhnCar4GTS4Z88ZxMgl6QnrPA&oe=69FF9B32)
 
 
 

diff --git a/src/content/blog/l-hydratation-en-trail-une-composante.md b/src/content/blog/l-hydratation-en-trail-une-composante.md
@@ -4,14 +4,14 @@ title: "💧 L'HYDRATATION EN TRAIL 👉 Une composante de la performance ? 🏃
 description: "💧 L'HYDRATATION EN TRAIL 👉 Une composante de la performance ? 🏃♂️💦 Sais tu qu'une..."
 excerpt: "💧 L'HYDRATATION EN TRAIL 👉 Une composante de la performance ? 🏃♂️💦 Sais tu qu'une..." 
 date: 2025-12-11
-image: https://scontent-mrs2-3.cdninstagram.com/v/t51.82787-15/586654546_17844483963632339_6037263781905482623_n.heic?stp=dst-jpg_e35_tt6&_nc_cat=104&ccb=7-5&_nc_sid=18de74&efg=eyJlZmdfdGFnIjoiRkVFRC5iZXN0X2ltYWdlX3VybGdlbi5DMyJ9&_nc_ohc=WFz26l8wmP4Q7kNvwHbYdyT&_nc_oc=AdqxclOkUkVcKvDnnZ5gz0eZvQEAEUJ02jkjzTyjfMtMj1VV0UWdy9VbwR_gkgLirVk&_nc_zt=23&_nc_ht=scontent-mrs2-3.cdninstagram.com&edm=ANo9K5cEAAAA&_nc_gid=8kRJXBz95t02PLurqzjIZg&_nc_tpa=Q5bMBQGX2i5ZGcY5GMHwPx_LLh6SAYlD-Z5EcuMsm5fkuo7aUDZxAkHPK7bWdETYtFZPpnBXkr2AFYs-xQ&oh=00_Af01kVBn_tYmcbmyLUPQKpQfgBzj6VVwMJPow80W5CIgoQ&oe=69EEB2A9
+image: https://scontent-cdg4-1.cdninstagram.com/v/t51.82787-15/586654546_17844483963632339_6037263781905482623_n.heic?stp=dst-jpg_e35_tt6&_nc_cat=104&ccb=7-5&_nc_sid=18de74&efg=eyJlZmdfdGFnIjoiRkVFRC5iZXN0X2ltYWdlX3VybGdlbi5DMyJ9&_nc_ohc=vi-Pc4gm5p0Q7kNvwH2-kGs&_nc_oc=AdooHtGh6rKtWyajAax1fz3OMyOt4HRxkKWyRhFb8FQRP4HlAchGEnuoENSVcJ_T82I&_nc_zt=23&_nc_ht=scontent-cdg4-1.cdninstagram.com&edm=ANo9K5cEAAAA&_nc_gid=LtxRBNdugPF7faiTQs92cA&_nc_tpa=Q5bMBQFL_A54drm4XLLW2jYWosL8SORD43zLmR49Th7001h0EiHlYQQ1eJ-Eu74xF7DRtvPHfUhQnx_yYA&oh=00_Af5KTsAPTFgvL_HoxNrPM7Qh_aY1D58roY6u8-2tkmy8pw&oe=69FF9DE9
 tags: ["trail", "trailrunning", "hydratation", "nutritionsportive", "coaching", "montpellier", "naak"]
 categories: ["trail", "trailrunning", "hydratation", "nutritionsportive", "coaching", "montpellier", "naak"]
 ---
 
 # 💧 L'HYDRATATION EN TRAIL 👉 Une composante de la performance ? 🏃♂️💦
 
-![thumbnail](https://scontent-mrs2-3.cdninstagram.com/v/t51.82787-15/586654546_17844483963632339_6037263781905482623_n.heic?stp=dst-jpg_e35_tt6&_nc_cat=104&ccb=7-5&_nc_sid=18de74&efg=eyJlZmdfdGFnIjoiRkVFRC5iZXN0X2ltYWdlX3VybGdlbi5DMyJ9&_nc_ohc=WFz26l8wmP4Q7kNvwHbYdyT&_nc_oc=AdqxclOkUkVcKvDnnZ5gz0eZvQEAEUJ02jkjzTyjfMtMj1VV0UWdy9VbwR_gkgLirVk&_nc_zt=23&_nc_ht=scontent-mrs2-3.cdninstagram.com&edm=ANo9K5cEAAAA&_nc_gid=8kRJXBz95t02PLurqzjIZg&_nc_tpa=Q5bMBQGX2i5ZGcY5GMHwPx_LLh6SAYlD-Z5EcuMsm5fkuo7aUDZxAkHPK7bWdETYtFZPpnBXkr2AFYs-xQ&oh=00_Af01kVBn_tYmcbmyLUPQKpQfgBzj6VVwMJPow80W5CIgoQ&oe=69EEB2A9)
+![thumbnail](https://scontent-cdg4-1.cdninstagram.com/v/t51.82787-15/586654546_17844483963632339_6037263781905482623_n.heic?stp=dst-jpg_e35_tt6&_nc_cat=104&ccb=7-5&_nc_sid=18de74&efg=eyJlZmdfdGFnIjoiRkVFRC5iZXN0X2ltYWdlX3VybGdlbi5DMyJ9&_nc_ohc=vi-Pc4gm5p0Q7kNvwH2-kGs&_nc_oc=AdooHtGh6rKtWyajAax1fz3OMyOt4HRxkKWyRhFb8FQRP4HlAchGEnuoENSVcJ_T82I&_nc_zt=23&_nc_ht=scontent-cdg4-1.cdninstagram.com&edm=ANo9K5cEAAAA&_nc_gid=LtxRBNdugPF7faiTQs92cA&_nc_tpa=Q5bMBQFL_A54drm4XLLW2jYWosL8SORD43zLmR49Th7001h0EiHlYQQ1eJ-Eu74xF7DRtvPHfUhQnx_yYA&oh=00_Af5KTsAPTFgvL_HoxNrPM7Qh_aY1D58roY6u8-2tkmy8pw&oe=69FF9DE9)
 
 
 

diff --git a/src/content/blog/l-ultra-trail-n-est-pas-seulement-une-epreuve.md b/src/content/blog/l-ultra-trail-n-est-pas-seulement-une-epreuve.md
@@ -4,14 +4,14 @@ title: "🌄 L'Ultra-trail n'est pas seulement une épreuve physique, c'est un d
 description: "🌄 L'Ultra-trail n'est pas seulement une épreuve physique, c'est un défi pour votre cerveau qui..."
 excerpt: "🌄 L'Ultra-trail n'est pas seulement une épreuve physique, c'est un défi pour votre cerveau qui..." 
 date: 2026-03-31
-image: https://scontent-mrs2-2.cdninstagram.com/v/t51.82787-15/658782862_17856362115632339_158219894963690426_n.jpg?stp=dst-jpg_e35_tt6&_nc_cat=106&ccb=7-5&_nc_sid=18de74&efg=eyJlZmdfdGFnIjoiQ0xJUFMuYmVzdF9pbWFnZV91cmxnZW4uQzMifQ%3D%3D&_nc_ohc=204FtnmMCHUQ7kNvwExXvgo&_nc_oc=AdoOwl7e_f7ZvPZNUkeisN59oK_PcodBR2ySG8o4VbLUvA3BSDNUvsm6clTMwSCYlmU&_nc_zt=23&_nc_ht=scontent-mrs2-2.cdninstagram.com&edm=ANo9K5cEAAAA&_nc_gid=8kRJXBz95t02PLurqzjIZg&_nc_tpa=Q5bMBQGoBfHvFul-RtWtLEEQbcNwDdzatieN68S3bxCfI18ZwweLIgBKLvTHR9nNfYoXrzQ4kRrJUBqaGg&oh=00_Af3_GLZdKYVfINjdWBBA6QH-VeSBGepuUFXhuW1ZqLVGAg&oe=69EEC80D
+image: https://scontent-cdg6-1.cdninstagram.com/v/t51.82787-15/658782862_17856362115632339_158219894963690426_n.jpg?stp=dst-jpg_e35_tt6&_nc_cat=106&ccb=7-5&_nc_sid=18de74&efg=eyJlZmdfdGFnIjoiQ0xJUFMuYmVzdF9pbWFnZV91cmxnZW4uQzMifQ%3D%3D&_nc_ohc=Ov7HLn61Y9oQ7kNvwEvJUqQ&_nc_oc=AdrE82wMQJzUUQ6yI_JFv_GHGCdgA55m8gwCwF5zZwArlCwuzNhS6RasZWO8mi4J_7Y&_nc_zt=23&_nc_ht=scontent-cdg6-1.cdninstagram.com&edm=ANo9K5cEAAAA&_nc_gid=LtxRBNdugPF7faiTQs92cA&_nc_tpa=Q5bMBQGOV18CKfgyjGvrf7w6C_1K4PJlapwulswOTVX4_YztFzBgmd2T6XG7ek-gUfdRRTp3xUvR2nv1ng&oh=00_Af6EDlN_gQzFg2cg_PO6OmecEZyJmGwXD2PgQJTsswOeSA&oe=69FFB34D
 tags: ["trail", "ultratrail", "preparationmentale", "coachingtrail", "trailrunnerlife"]
 categories: ["trail", "ultratrail", "preparationmentale", "coachingtrail", "trailrunnerlife"]
 ---
 
 # 🌄 L'Ultra-trail n'est pas seulement une épreuve physique, c'est un défi pour votre cerveau qui doit construire un nouveau modèle du monde pour s'adapter à l'effort extrême. 
 
-![thumbnail](https://scontent-mrs2-2.cdninstagram.com/v/t51.82787-15/658782862_17856362115632339_158219894963690426_n.jpg?stp=dst-jpg_e35_tt6&_nc_cat=106&ccb=7-5&_nc_sid=18de74&efg=eyJlZmdfdGFnIjoiQ0xJUFMuYmVzdF9pbWFnZV91cmxnZW4uQzMifQ%3D%3D&_nc_ohc=204FtnmMCHUQ7kNvwExXvgo&_nc_oc=AdoOwl7e_f7ZvPZNUkeisN59oK_PcodBR2ySG8o4VbLUvA3BSDNUvsm6clTMwSCYlmU&_nc_zt=23&_nc_ht=scontent-mrs2-2.cdninstagram.com&edm=ANo9K5cEAAAA&_nc_gid=8kRJXBz95t02PLurqzjIZg&_nc_tpa=Q5bMBQGoBfHvFul-RtWtLEEQbcNwDdzatieN68S3bxCfI18ZwweLIgBKLvTHR9nNfYoXrzQ4kRrJUBqaGg&oh=00_Af3_GLZdKYVfINjdWBBA6QH-VeSBGepuUFXhuW1ZqLVGAg&oe=69EEC80D)
+![thumbnail](https://scontent-cdg6-1.cdninstagram.com/v/t51.82787-15/658782862_17856362115632339_158219894963690426_n.jpg?stp=dst-jpg_e35_tt6&_nc_cat=106&ccb=7-5&_nc_sid=18de74&efg=eyJlZmdfdGFnIjoiQ0xJUFMuYmVzdF9pbWFnZV91cmxnZW4uQzMifQ%3D%3D&_nc_ohc=Ov7HLn61Y9oQ7kNvwEvJUqQ&_nc_oc=AdrE82wMQJzUUQ6yI_JFv_GHGCdgA55m8gwCwF5zZwArlCwuzNhS6RasZWO8mi4J_7Y&_nc_zt=23&_nc_ht=scontent-cdg6-1.cdninstagram.com&edm=ANo9K5cEAAAA&_nc_gid=LtxRBNdugPF7faiTQs92cA&_nc_tpa=Q5bMBQGOV18CKfgyjGvrf7w6C_1K4PJlapwulswOTVX4_YztFzBgmd2T6XG7ek-gUfdRRTp3xUvR2nv1ng&oh=00_Af6EDlN_gQzFg2cg_PO6OmecEZyJmGwXD2PgQJTsswOeSA&oe=69FFB34D)
 
 
 

diff --git a/src/content/blog/le-fartlek-l-entrainement-a-la.md b/src/content/blog/le-fartlek-l-entrainement-a-la.md
@@ -4,14 +4,14 @@ title: "🚀 Le Fartlek : l'entraînement à la sauce suédoise 🥵"
 description: "🚀 Le Fartlek : l'entraînement à la sauce suédoise 🥵 📚Il y a de ça..."
 excerpt: "🚀 Le Fartlek : l'entraînement à la sauce suédoise 🥵 📚Il y a de ça..." 
 date: 2026-04-14
-image: https://scontent-mrs2-3.cdninstagram.com/v/t51.82787-15/670961525_17858107194632339_517454711380858769_n.jpg?stp=dst-jpg_e35_tt6&_nc_cat=108&ccb=7-5&_nc_sid=18de74&efg=eyJlZmdfdGFnIjoiQ0xJUFMuYmVzdF9pbWFnZV91cmxnZW4uQzMifQ%3D%3D&_nc_ohc=gYfuWHPad9wQ7kNvwH09m6X&_nc_oc=AdrsI5l6UK8bZX4FT4OTlfHXXg1vXHU2wJkaHfo0XKKyaU2Yvf5ZzdayjzjPRO0snAc&_nc_zt=23&_nc_ht=scontent-mrs2-3.cdninstagram.com&edm=ANo9K5cEAAAA&_nc_gid=8kRJXBz95t02PLurqzjIZg&_nc_tpa=Q5bMBQFs7Wq0Otdfus_GDBk324tdz20bATHDgUznmrdkluVNDFZWehkqyBqnFmwzhihalXEJPoQa-yDS4Q&oh=00_Af1IuMpfg_m_DNKVliI3hYlJZLpmZ4yfp-wPd3j3LRwnYQ&oe=69EEDCE2
+image: https://scontent-cdg4-1.cdninstagram.com/v/t51.82787-15/670961525_17858107194632339_517454711380858769_n.jpg?stp=dst-jpg_e35_tt6&_nc_cat=108&ccb=7-5&_nc_sid=18de74&efg=eyJlZmdfdGFnIjoiQ0xJUFMuYmVzdF9pbWFnZV91cmxnZW4uQzMifQ%3D%3D&_nc_ohc=wnX_bmFJ_ZIQ7kNvwGiPXGi&_nc_oc=AdqyUNPv7XhdSeS0t05SjNg1SMDakKEHuqE6oX7UcAQHItDzGTHLp3GAu8j60TnWTpY&_nc_zt=23&_nc_ht=scontent-cdg4-1.cdninstagram.com&edm=ANo9K5cEAAAA&_nc_gid=LtxRBNdugPF7faiTQs92cA&_nc_tpa=Q5bMBQFiR6ZihPQFM1MDDVRxWuTjXWtnmlQk9Fra3UNFYgRyNjc44eAu5EhbwdG1-w6FwlxC3wE-KM0UBA&oh=00_Af6rWaaAwkAh5mEH4-A0X7XGr-ZXbEEL58mntNW3cwF09Q&oe=69FF8FE2
 tags: ["trail", "ultratrail", "coachingtrail", "entrainementtrail", "fartlek"]
 categories: ["trail", "ultratrail", "coachingtrail", "entrainementtrail", "fartlek"]
 ---
 
 # 🚀 Le Fartlek : l'entraînement à la sauce suédoise 🥵
 
-![thumbnail](https://scontent-mrs2-3.cdninstagram.com/v/t51.82787-15/670961525_17858107194632339_517454711380858769_n.jpg?stp=dst-jpg_e35_tt6&_nc_cat=108&ccb=7-5&_nc_sid=18de74&efg=eyJlZmdfdGFnIjoiQ0xJUFMuYmVzdF9pbWFnZV91cmxnZW4uQzMifQ%3D%3D&_nc_ohc=gYfuWHPad9wQ7kNvwH09m6X&_nc_oc=AdrsI5l6UK8bZX4FT4OTlfHXXg1vXHU2wJkaHfo0XKKyaU2Yvf5ZzdayjzjPRO0snAc&_nc_zt=23&_nc_ht=scontent-mrs2-3.cdninstagram.com&edm=ANo9K5cEAAAA&_nc_gid=8kRJXBz95t02PLurqzjIZg&_nc_tpa=Q5bMBQFs7Wq0Otdfus_GDBk324tdz20bATHDgUznmrdkluVNDFZWehkqyBqnFmwzhihalXEJPoQa-yDS4Q&oh=00_Af1IuMpfg_m_DNKVliI3hYlJZLpmZ4yfp-wPd3j3LRwnYQ&oe=69EEDCE2)
+![thumbnail](https://scontent-cdg4-1.cdninstagram.com/v/t51.82787-15/670961525_17858107194632339_517454711380858769_n.jpg?stp=dst-jpg_e35_tt6&_nc_cat=108&ccb=7-5&_nc_sid=18de74&efg=eyJlZmdfdGFnIjoiQ0xJUFMuYmVzdF9pbWFnZV91cmxnZW4uQzMifQ%3D%3D&_nc_ohc=wnX_bmFJ_ZIQ7kNvwGiPXGi&_nc_oc=AdqyUNPv7XhdSeS0t05SjNg1SMDakKEHuqE6oX7UcAQHItDzGTHLp3GAu8j60TnWTpY&_nc_zt=23&_nc_ht=scontent-cdg4-1.cdninstagram.com&edm=ANo9K5cEAAAA&_nc_gid=LtxRBNdugPF7faiTQs92cA&_nc_tpa=Q5bMBQFiR6ZihPQFM1MDDVRxWuTjXWtnmlQk9Fra3UNFYgRyNjc44eAu5EhbwdG1-w6FwlxC3wE-KM0UBA&oh=00_Af6rWaaAwkAh5mEH4-A0X7XGr-ZXbEEL58mntNW3cwF09Q&oe=69FF8FE2)
 
 
 

diff --git a/src/content/blog/le-gut-training-tu-connais.md b/src/content/blog/le-gut-training-tu-connais.md
@@ -4,14 +4,14 @@ title: "💥 Le GUT Training tu connais ? 🍬🍌💧"
 description: "💥 Le GUT Training tu connais ? 🍬🍌💧 🧘♂️ En Ultra il faut savoir être..."
 excerpt: "💥 Le GUT Training tu connais ? 🍬🍌💧 🧘♂️ En Ultra il faut savoir être..." 
 date: 2026-04-03
-image: https://scontent-mrs2-1.cdninstagram.com/v/t51.82787-15/658142077_17856766971632339_1701941121184912433_n.jpg?stp=dst-jpg_e35_tt6&_nc_cat=105&ccb=7-5&_nc_sid=18de74&efg=eyJlZmdfdGFnIjoiQ0xJUFMuYmVzdF9pbWFnZV91cmxnZW4uQzMifQ%3D%3D&_nc_ohc=UZcsxxga5QgQ7kNvwFg8V61&_nc_oc=AdolyfvRrewWBxyVi7ub4WuuGaLfHlUSmoDK5F1IEYbCPajduBKoUnNtbaGRVyBQqzM&_nc_zt=23&_nc_ht=scontent-mrs2-1.cdninstagram.com&edm=ANo9K5cEAAAA&_nc_gid=8kRJXBz95t02PLurqzjIZg&_nc_tpa=Q5bMBQEjnWN4PI_4aDZ0SDq8rsggJjs-88It8WFltqt8CfBcSPuB7rhKpDvQsNViYAqcJmaM3WltQnmjQg&oh=00_Af01L3QsEPUPUO6Y8nVKXKtEbRmj2GB5nLUCxEEYIHm2QQ&oe=69EEAD69
+image: https://scontent-cdg6-1.cdninstagram.com/v/t51.82787-15/658142077_17856766971632339_1701941121184912433_n.jpg?stp=dst-jpg_e35_tt6&_nc_cat=105&ccb=7-5&_nc_sid=18de74&efg=eyJlZmdfdGFnIjoiQ0xJUFMuYmVzdF9pbWFnZV91cmxnZW4uQzMifQ%3D%3D&_nc_ohc=rMBGhw3k08gQ7kNvwEuvZN1&_nc_oc=Adp1lEJxcWg0xfONBrWIlfgvarXyLEY89fqKM6Y_dyjNwVPOgWEGFCXzyc4n5E5cJ70&_nc_zt=23&_nc_ht=scontent-cdg6-1.cdninstagram.com&edm=ANo9K5cEAAAA&_nc_gid=LtxRBNdugPF7faiTQs92cA&_nc_tpa=Q5bMBQEVXxVBVKD66BxuPXP9yBtgbz6CN1W1uFWJbqsce5oZ1RAonTch_zrU_jR9DmZcPojpdu9tdIoxtw&oh=00_Af5kgpQVmQyJy2TYscrUgHttilG0BrjkvMoojNhaP0tFkA&oe=69FF98A9
 tags: ["trail", "ultratrail", "nutritioncourse", "entrainementtrail", "coachingtrail"]
 categories: ["trail", "ultratrail", "nutritioncourse", "entrainementtrail", "coachingtrail"]
 ---
 
 # 💥 Le GUT Training tu connais ? 🍬🍌💧
 
-![thumbnail](https://scontent-mrs2-1.cdninstagram.com/v/t51.82787-15/658142077_17856766971632339_1701941121184912433_n.jpg?stp=dst-jpg_e35_tt6&_nc_cat=105&ccb=7-5&_nc_sid=18de74&efg=eyJlZmdfdGFnIjoiQ0xJUFMuYmVzdF9pbWFnZV91cmxnZW4uQzMifQ%3D%3D&_nc_ohc=UZcsxxga5QgQ7kNvwFg8V61&_nc_oc=AdolyfvRrewWBxyVi7ub4WuuGaLfHlUSmoDK5F1IEYbCPajduBKoUnNtbaGRVyBQqzM&_nc_zt=23&_nc_ht=scontent-mrs2-1.cdninstagram.com&edm=ANo9K5cEAAAA&_nc_gid=8kRJXBz95t02PLurqzjIZg&_nc_tpa=Q5bMBQEjnWN4PI_4aDZ0SDq8rsggJjs-88It8WFltqt8CfBcSPuB7rhKpDvQsNViYAqcJmaM3WltQnmjQg&oh=00_Af01L3QsEPUPUO6Y8nVKXKtEbRmj2GB5nLUCxEEYIHm2QQ&oe=69EEAD69)
+![thumbnail](https://scontent-cdg6-1.cdninstagram.com/v/t51.82787-15/658142077_17856766971632339_1701941121184912433_n.jpg?stp=dst-jpg_e35_tt6&_nc_cat=105&ccb=7-5&_nc_sid=18de74&efg=eyJlZmdfdGFnIjoiQ0xJUFMuYmVzdF9pbWFnZV91cmxnZW4uQzMifQ%3D%3D&_nc_ohc=rMBGhw3k08gQ7kNvwEuvZN1&_nc_oc=Adp1lEJxcWg0xfONBrWIlfgvarXyLEY89fqKM6Y_dyjNwVPOgWEGFCXzyc4n5E5cJ70&_nc_zt=23&_nc_ht=scontent-cdg6-1.cdninstagram.com&edm=ANo9K5cEAAAA&_nc_gid=LtxRBNdugPF7faiTQs92cA&_nc_tpa=Q5bMBQEVXxVBVKD66BxuPXP9yBtgbz6CN1W1uFWJbqsce5oZ1RAonTch_zrU_jR9DmZcPojpdu9tdIoxtw&oh=00_Af5kgpQVmQyJy2TYscrUgHttilG0BrjkvMoojNhaP0tFkA&oe=69FF98A9)
 
 
 